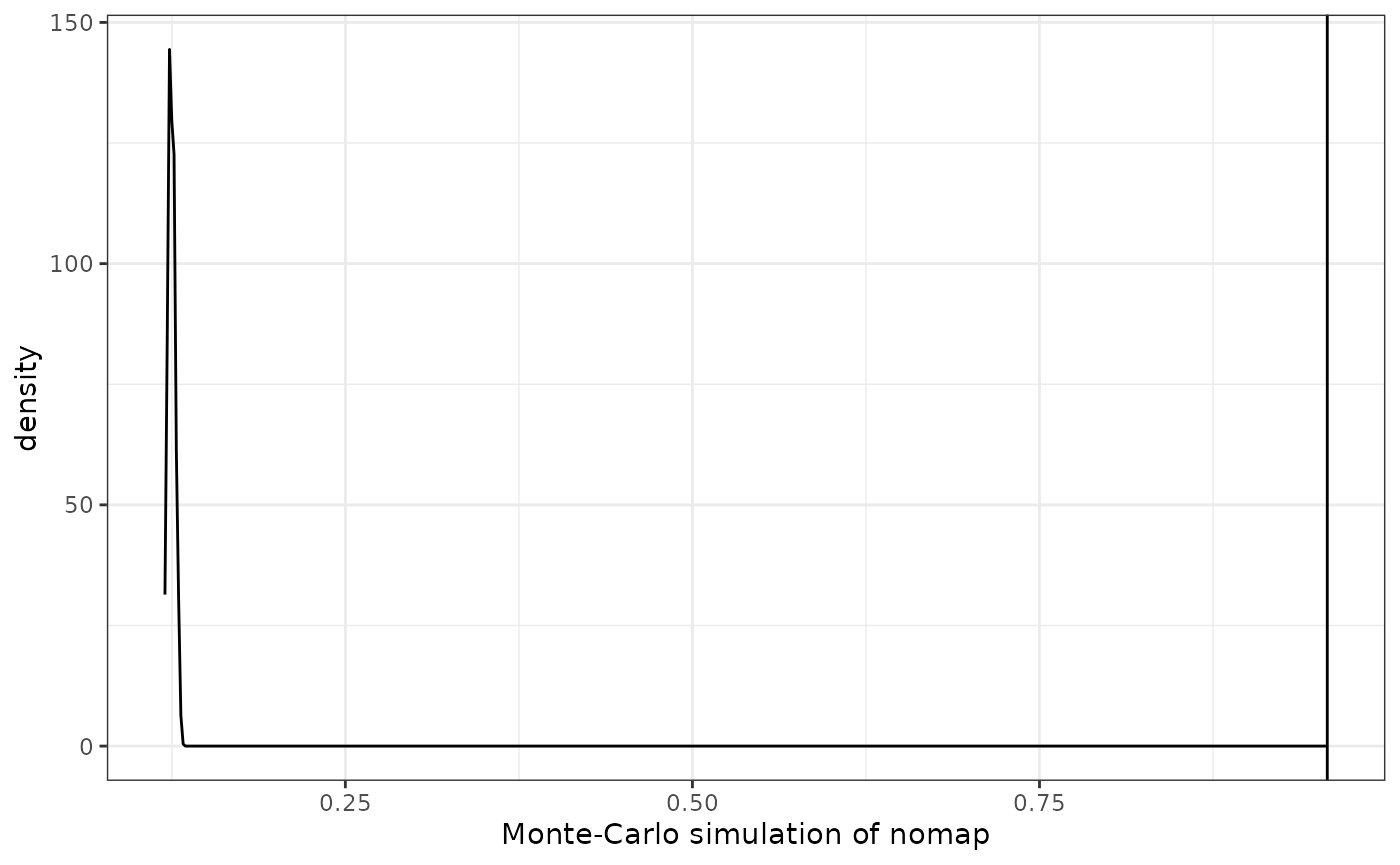
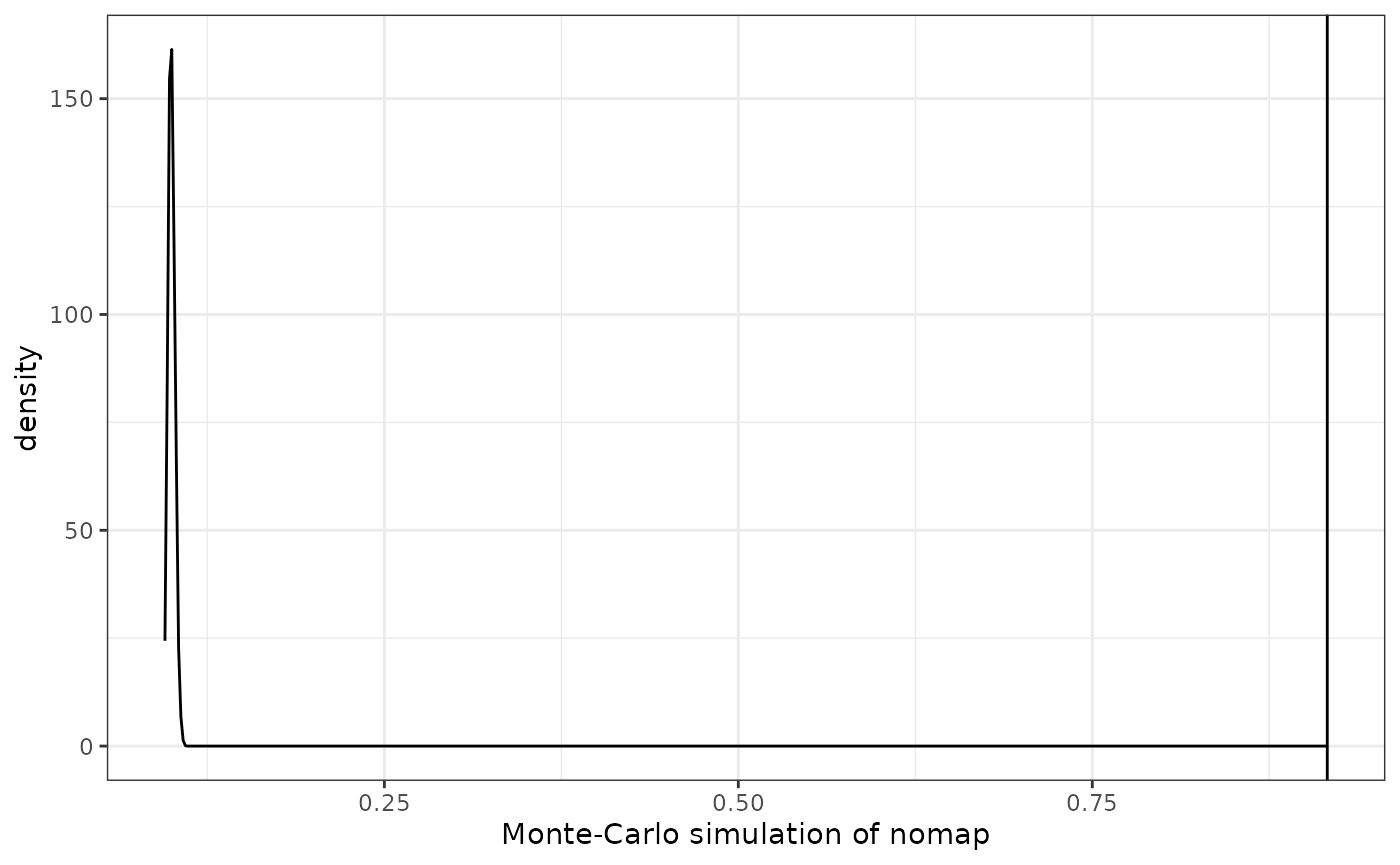
Deploying to gh-pages from @ kayla-jackson/nomapR@e934c96d1ddb1eb6f7cdb7df8b925eabbabb7744 🚀

diff --git a/articles/nomap-demo.html b/articles/nomap-demo.html
@@ -111,91 +111,9 @@ same label as the cell of interest than by chance.</p>
 <div class="sourceCode" id="cb1"><pre class="downlit sourceCode r">
 <code class="sourceCode R"><span><span class="kw"><a href="https://rdrr.io/r/base/library.html" class="external-link">library</a></span><span class="op">(</span><span class="va"><a href="https://github.com/kayla-jackson/nomapR" class="external-link">nomapR</a></span><span class="op">)</span></span>
 <span><span class="kw"><a href="https://rdrr.io/r/base/library.html" class="external-link">library</a></span><span class="op">(</span><span class="va">TENxPBMCData</span><span class="op">)</span></span>
-<span><span class="co">#&gt; Loading required package: SingleCellExperiment</span></span>
-<span><span class="co">#&gt; Loading required package: SummarizedExperiment</span></span>
-<span><span class="co">#&gt; Loading required package: MatrixGenerics</span></span>
-<span><span class="co">#&gt; Loading required package: matrixStats</span></span>
-<span><span class="co">#&gt; </span></span>
-<span><span class="co">#&gt; Attaching package: 'MatrixGenerics'</span></span>
-<span><span class="co">#&gt; The following objects are masked from 'package:matrixStats':</span></span>
-<span><span class="co">#&gt; </span></span>
-<span><span class="co">#&gt;     colAlls, colAnyNAs, colAnys, colAvgsPerRowSet, colCollapse,</span></span>
-<span><span class="co">#&gt;     colCounts, colCummaxs, colCummins, colCumprods, colCumsums,</span></span>
-<span><span class="co">#&gt;     colDiffs, colIQRDiffs, colIQRs, colLogSumExps, colMadDiffs,</span></span>
-<span><span class="co">#&gt;     colMads, colMaxs, colMeans2, colMedians, colMins, colOrderStats,</span></span>
-<span><span class="co">#&gt;     colProds, colQuantiles, colRanges, colRanks, colSdDiffs, colSds,</span></span>
-<span><span class="co">#&gt;     colSums2, colTabulates, colVarDiffs, colVars, colWeightedMads,</span></span>
-<span><span class="co">#&gt;     colWeightedMeans, colWeightedMedians, colWeightedSds,</span></span>
-<span><span class="co">#&gt;     colWeightedVars, rowAlls, rowAnyNAs, rowAnys, rowAvgsPerColSet,</span></span>
-<span><span class="co">#&gt;     rowCollapse, rowCounts, rowCummaxs, rowCummins, rowCumprods,</span></span>
-<span><span class="co">#&gt;     rowCumsums, rowDiffs, rowIQRDiffs, rowIQRs, rowLogSumExps,</span></span>
-<span><span class="co">#&gt;     rowMadDiffs, rowMads, rowMaxs, rowMeans2, rowMedians, rowMins,</span></span>
-<span><span class="co">#&gt;     rowOrderStats, rowProds, rowQuantiles, rowRanges, rowRanks,</span></span>
-<span><span class="co">#&gt;     rowSdDiffs, rowSds, rowSums2, rowTabulates, rowVarDiffs, rowVars,</span></span>
-<span><span class="co">#&gt;     rowWeightedMads, rowWeightedMeans, rowWeightedMedians,</span></span>
-<span><span class="co">#&gt;     rowWeightedSds, rowWeightedVars</span></span>
-<span><span class="co">#&gt; Loading required package: GenomicRanges</span></span>
-<span><span class="co">#&gt; Loading required package: stats4</span></span>
-<span><span class="co">#&gt; Loading required package: BiocGenerics</span></span>
-<span><span class="co">#&gt; </span></span>
-<span><span class="co">#&gt; Attaching package: 'BiocGenerics'</span></span>
-<span><span class="co">#&gt; The following objects are masked from 'package:stats':</span></span>
-<span><span class="co">#&gt; </span></span>
-<span><span class="co">#&gt;     IQR, mad, sd, var, xtabs</span></span>
-<span><span class="co">#&gt; The following objects are masked from 'package:base':</span></span>
-<span><span class="co">#&gt; </span></span>
-<span><span class="co">#&gt;     anyDuplicated, aperm, append, as.data.frame, basename, cbind,</span></span>
-<span><span class="co">#&gt;     colnames, dirname, do.call, duplicated, eval, evalq, Filter, Find,</span></span>
-<span><span class="co">#&gt;     get, grep, grepl, intersect, is.unsorted, lapply, Map, mapply,</span></span>
-<span><span class="co">#&gt;     match, mget, order, paste, pmax, pmax.int, pmin, pmin.int,</span></span>
-<span><span class="co">#&gt;     Position, rank, rbind, Reduce, rownames, sapply, setdiff, sort,</span></span>
-<span><span class="co">#&gt;     table, tapply, union, unique, unsplit, which.max, which.min</span></span>
-<span><span class="co">#&gt; Loading required package: S4Vectors</span></span>
-<span><span class="co">#&gt; </span></span>
-<span><span class="co">#&gt; Attaching package: 'S4Vectors'</span></span>
-<span><span class="co">#&gt; The following objects are masked from 'package:base':</span></span>
-<span><span class="co">#&gt; </span></span>
-<span><span class="co">#&gt;     expand.grid, I, unname</span></span>
-<span><span class="co">#&gt; Loading required package: IRanges</span></span>
-<span><span class="co">#&gt; Loading required package: GenomeInfoDb</span></span>
-<span><span class="co">#&gt; Loading required package: Biobase</span></span>
-<span><span class="co">#&gt; Welcome to Bioconductor</span></span>
-<span><span class="co">#&gt; </span></span>
-<span><span class="co">#&gt;     Vignettes contain introductory material; view with</span></span>
-<span><span class="co">#&gt;     'browseVignettes()'. To cite Bioconductor, see</span></span>
-<span><span class="co">#&gt;     'citation("Biobase")', and for packages 'citation("pkgname")'.</span></span>
-<span><span class="co">#&gt; </span></span>
-<span><span class="co">#&gt; Attaching package: 'Biobase'</span></span>
-<span><span class="co">#&gt; The following object is masked from 'package:MatrixGenerics':</span></span>
-<span><span class="co">#&gt; </span></span>
-<span><span class="co">#&gt;     rowMedians</span></span>
-<span><span class="co">#&gt; The following objects are masked from 'package:matrixStats':</span></span>
-<span><span class="co">#&gt; </span></span>
-<span><span class="co">#&gt;     anyMissing, rowMedians</span></span>
-<span><span class="co">#&gt; Loading required package: HDF5Array</span></span>
-<span><span class="co">#&gt; Loading required package: DelayedArray</span></span>
-<span><span class="co">#&gt; Loading required package: Matrix</span></span>
-<span><span class="co">#&gt; </span></span>
-<span><span class="co">#&gt; Attaching package: 'Matrix'</span></span>
-<span><span class="co">#&gt; The following object is masked from 'package:S4Vectors':</span></span>
-<span><span class="co">#&gt; </span></span>
-<span><span class="co">#&gt;     expand</span></span>
-<span><span class="co">#&gt; </span></span>
-<span><span class="co">#&gt; Attaching package: 'DelayedArray'</span></span>
-<span><span class="co">#&gt; The following objects are masked from 'package:base':</span></span>
-<span><span class="co">#&gt; </span></span>
-<span><span class="co">#&gt;     apply, rowsum, scale, sweep</span></span>
-<span><span class="co">#&gt; Loading required package: rhdf5</span></span>
-<span><span class="co">#&gt; </span></span>
-<span><span class="co">#&gt; Attaching package: 'HDF5Array'</span></span>
-<span><span class="co">#&gt; The following object is masked from 'package:rhdf5':</span></span>
-<span><span class="co">#&gt; </span></span>
-<span><span class="co">#&gt;     h5ls</span></span>
 <span><span class="kw"><a href="https://rdrr.io/r/base/library.html" class="external-link">library</a></span><span class="op">(</span><span class="va">BiocNeighbors</span><span class="op">)</span></span>
 <span><span class="kw"><a href="https://rdrr.io/r/base/library.html" class="external-link">library</a></span><span class="op">(</span><span class="va">bluster</span><span class="op">)</span></span>
 <span><span class="kw"><a href="https://rdrr.io/r/base/library.html" class="external-link">library</a></span><span class="op">(</span><span class="va"><a href="http://bioconductor.org/packages/scater/" class="external-link">scater</a></span><span class="op">)</span></span>
-<span><span class="co">#&gt; Loading required package: scuttle</span></span>
-<span><span class="co">#&gt; Loading required package: ggplot2</span></span>
 <span><span class="kw"><a href="https://rdrr.io/r/base/library.html" class="external-link">library</a></span><span class="op">(</span><span class="va"><a href="https://patchwork.data-imaginist.com" class="external-link">patchwork</a></span><span class="op">)</span></span>
 <span><span class="kw"><a href="https://rdrr.io/r/base/library.html" class="external-link">library</a></span><span class="op">(</span><span class="va"><a href="https://ggplot2.tidyverse.org" class="external-link">ggplot2</a></span><span class="op">)</span></span>
 <span><span class="fu"><a href="https://ggplot2.tidyverse.org/reference/theme_get.html" class="external-link">theme_set</a></span><span class="op">(</span><span class="fu"><a href="https://ggplot2.tidyverse.org/reference/ggtheme.html" class="external-link">theme_bw</a></span><span class="op">(</span><span class="op">)</span><span class="op">)</span></span></code></pre></div>
@@ -327,7 +245,7 @@ labels.</p>
 simulated value is also returned:</p>
 <div class="sourceCode" id="cb17"><pre class="downlit sourceCode r">
 <code class="sourceCode R"><span><span class="va">res</span><span class="op">$</span><span class="va">corrected_trace</span></span>
-<span><span class="co">#&gt; [1] 7.669867</span></span></code></pre></div>
+<span><span class="co">#&gt; [1] 9.184934</span></span></code></pre></div>
 <p>A number greater than 1 means that cells are more likely to have
 neighbors with the same label than expected by chance when the labels
 are completely randomly assigned, and the value of 7.7 here means that
@@ -442,6 +360,10 @@ than UMAP.</p>
 <span><span class="co">#&gt; [109] beachmat_2.14.0               rmarkdown_2.21               </span></span>
 <span><span class="co">#&gt; [111] DelayedMatrixStats_1.20.0     shiny_1.7.4                  </span></span>
 <span><span class="co">#&gt; [113] ggbeeswarm_0.7.1</span></span></code></pre></div>
+</div>
+<div class="section level2">
+<h2 class="unnumbered" id="references">References<a class="anchor" aria-label="anchor" href="#references"></a>
+</h2>
 <div id="refs" class="references csl-bib-body hanging-indent">
 <div id="ref-Chari2021-hb" class="csl-entry">
 Chari, Tara, Joeyta Banerjee, and Lior Pachter. 2021. <span>“The

diff --git a/reference/calculateNomap.html b/reference/calculateNomap.html
@@ -158,24 +158,24 @@ cells of each label. Only returned when <code>return.map = TRUE</code>.</p></dd>
 <span class="r-in"><span></span></span>
 <span class="r-in"><span><span class="va">res</span></span></span>
 <span class="r-out co"><span class="r-pr">#&gt;</span> $nomap</span>
-<span class="r-out co"><span class="r-pr">#&gt;</span> [1] 0.2091503</span>
+<span class="r-out co"><span class="r-pr">#&gt;</span> [1] 0.2481061</span>
 <span class="r-out co"><span class="r-pr">#&gt;</span> </span>
 <span class="r-out co"><span class="r-pr">#&gt;</span> $mean_random_nomap</span>
-<span class="r-out co"><span class="r-pr">#&gt;</span> [1] 0.2791711</span>
+<span class="r-out co"><span class="r-pr">#&gt;</span> [1] NaN</span>
 <span class="r-out co"><span class="r-pr">#&gt;</span> </span>
 <span class="r-out co"><span class="r-pr">#&gt;</span> $corrected_trace</span>
-<span class="r-out co"><span class="r-pr">#&gt;</span> [1] 0.7491833</span>
+<span class="r-out co"><span class="r-pr">#&gt;</span> [1] NaN</span>
 <span class="r-out co"><span class="r-pr">#&gt;</span> </span>
 <span class="r-out co"><span class="r-pr">#&gt;</span> $simulated</span>
-<span class="r-out co"><span class="r-pr">#&gt;</span>  [1] 0.2653509 0.2679739 0.3166667 0.2805556 0.2070175 0.2333333 0.3363095</span>
-<span class="r-out co"><span class="r-pr">#&gt;</span>  [8] 0.2653509 0.2996032 0.2710623 0.3277778 0.3333333 0.2629630 0.2968254</span>
-<span class="r-out co"><span class="r-pr">#&gt;</span> [15] 0.2234432</span>
+<span class="r-out co"><span class="r-pr">#&gt;</span>  [1] 0.2373737 0.2272727 0.3333333 0.2333333 0.2666667 0.2804233 0.2179487</span>
+<span class="r-out co"><span class="r-pr">#&gt;</span>  [8] 0.2380952 0.2500000 0.2171053 0.2250000       NaN 0.3172906 0.2144522</span>
+<span class="r-out co"><span class="r-pr">#&gt;</span> [15] 0.3055556</span>
 <span class="r-out co"><span class="r-pr">#&gt;</span> </span>
 <span class="r-out co"><span class="r-pr">#&gt;</span> $map</span>
-<span class="r-out co"><span class="r-pr">#&gt;</span>           l1        l2         l3</span>
-<span class="r-out co"><span class="r-pr">#&gt;</span> l1 0.2941176 0.4117647 0.00000000</span>
-<span class="r-out co"><span class="r-pr">#&gt;</span> l2 0.8333333 0.3333333 0.08333333</span>
-<span class="r-out co"><span class="r-pr">#&gt;</span> l3 2.0000000 1.0000000 0.00000000</span>
+<span class="r-out co"><span class="r-pr">#&gt;</span>            l1        l2        l3</span>
+<span class="r-out co"><span class="r-pr">#&gt;</span> l1 0.00000000 0.6666667 0.3333333</span>
+<span class="r-out co"><span class="r-pr">#&gt;</span> l2 0.09090909 0.1818182 0.5454545</span>
+<span class="r-out co"><span class="r-pr">#&gt;</span> l3 0.12500000 0.4375000 0.5625000</span>
 <span class="r-out co"><span class="r-pr">#&gt;</span> </span>
 <span class="r-in"><span></span></span>
 <span class="r-in"><span><span class="co"># Also works if input matrix is nxk or kxn</span></span></span>
@@ -188,24 +188,24 @@ cells of each label. Only returned when <code>return.map = TRUE</code>.</p></dd>
 <span class="r-in"><span></span></span>
 <span class="r-in"><span><span class="va">res</span></span></span>
 <span class="r-out co"><span class="r-pr">#&gt;</span> $nomap</span>
-<span class="r-out co"><span class="r-pr">#&gt;</span> [1] 0.3068182</span>
+<span class="r-out co"><span class="r-pr">#&gt;</span> [1] 0.3586745</span>
 <span class="r-out co"><span class="r-pr">#&gt;</span> </span>
 <span class="r-out co"><span class="r-pr">#&gt;</span> $mean_random_nomap</span>
-<span class="r-out co"><span class="r-pr">#&gt;</span> [1] 0.2463601</span>
+<span class="r-out co"><span class="r-pr">#&gt;</span> [1] 0.2473407</span>
 <span class="r-out co"><span class="r-pr">#&gt;</span> </span>
 <span class="r-out co"><span class="r-pr">#&gt;</span> $corrected_trace</span>
-<span class="r-out co"><span class="r-pr">#&gt;</span> [1] 1.245405</span>
+<span class="r-out co"><span class="r-pr">#&gt;</span> [1] 1.450123</span>
 <span class="r-out co"><span class="r-pr">#&gt;</span> </span>
 <span class="r-out co"><span class="r-pr">#&gt;</span> $simulated</span>
-<span class="r-out co"><span class="r-pr">#&gt;</span>  [1] 0.3431373 0.2679739 0.2581197 0.2371795 0.1412037 0.2820513 0.2063492</span>
-<span class="r-out co"><span class="r-pr">#&gt;</span>  [8] 0.2236842 0.2087542 0.2708333 0.2740385 0.1470085 0.2401961 0.2948718</span>
-<span class="r-out co"><span class="r-pr">#&gt;</span> [15] 0.3000000</span>
+<span class="r-out co"><span class="r-pr">#&gt;</span>  [1] 0.2516340 0.2388889 0.3216374 0.2500000 0.2245614 0.3703704 0.2670565</span>
+<span class="r-out co"><span class="r-pr">#&gt;</span>  [8] 0.1372549 0.2111111 0.2666667 0.2185185 0.2673797 0.2268519 0.2235294</span>
+<span class="r-out co"><span class="r-pr">#&gt;</span> [15] 0.2346491</span>
 <span class="r-out co"><span class="r-pr">#&gt;</span> </span>
 <span class="r-out co"><span class="r-pr">#&gt;</span> $map</span>
 <span class="r-out co"><span class="r-pr">#&gt;</span>           l1        l2        l3</span>
-<span class="r-out co"><span class="r-pr">#&gt;</span> l1 0.3750000 0.3125000 0.0625000</span>
-<span class="r-out co"><span class="r-pr">#&gt;</span> l2 0.6363636 0.5454545 0.1818182</span>
-<span class="r-out co"><span class="r-pr">#&gt;</span> l3 1.0000000 0.0000000 0.0000000</span>
+<span class="r-out co"><span class="r-pr">#&gt;</span> l1 0.0000000 0.5000000 1.0000000</span>
+<span class="r-out co"><span class="r-pr">#&gt;</span> l2 0.0000000 0.4444444 0.5555556</span>
+<span class="r-out co"><span class="r-pr">#&gt;</span> l3 0.1052632 0.2105263 0.6315789</span>
 <span class="r-out co"><span class="r-pr">#&gt;</span> </span>
 </code></pre></div>
     </div>
